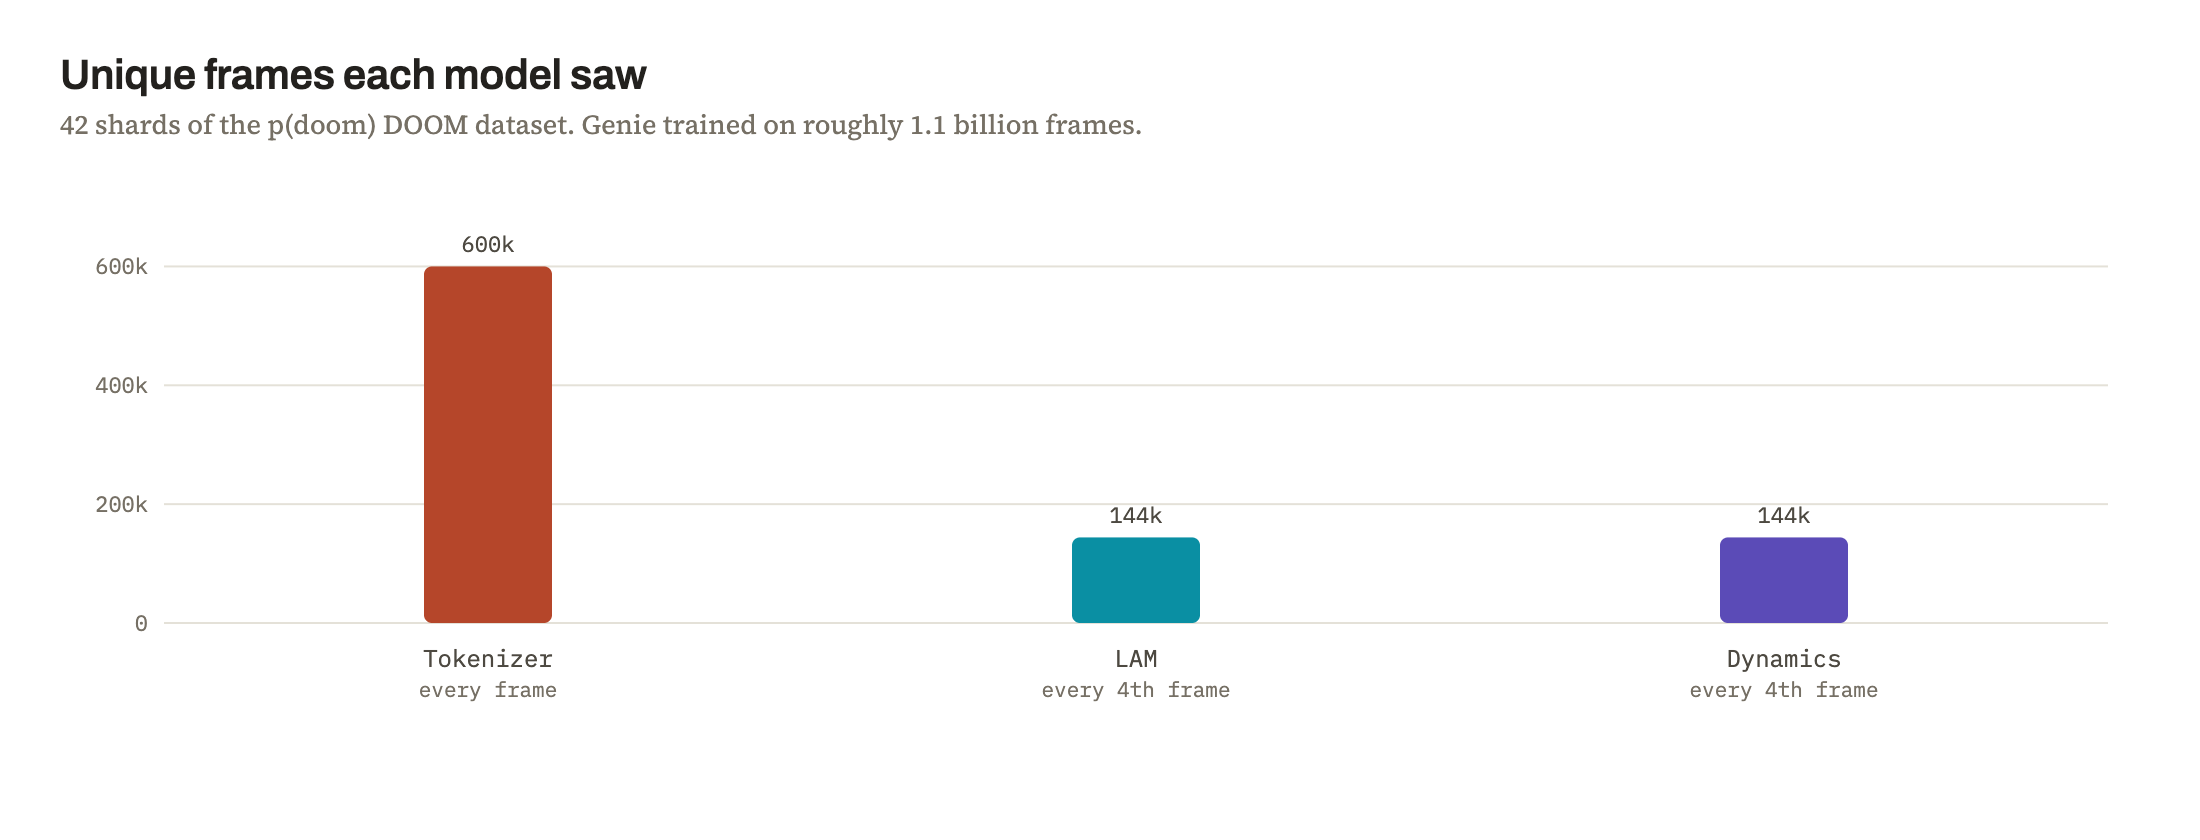
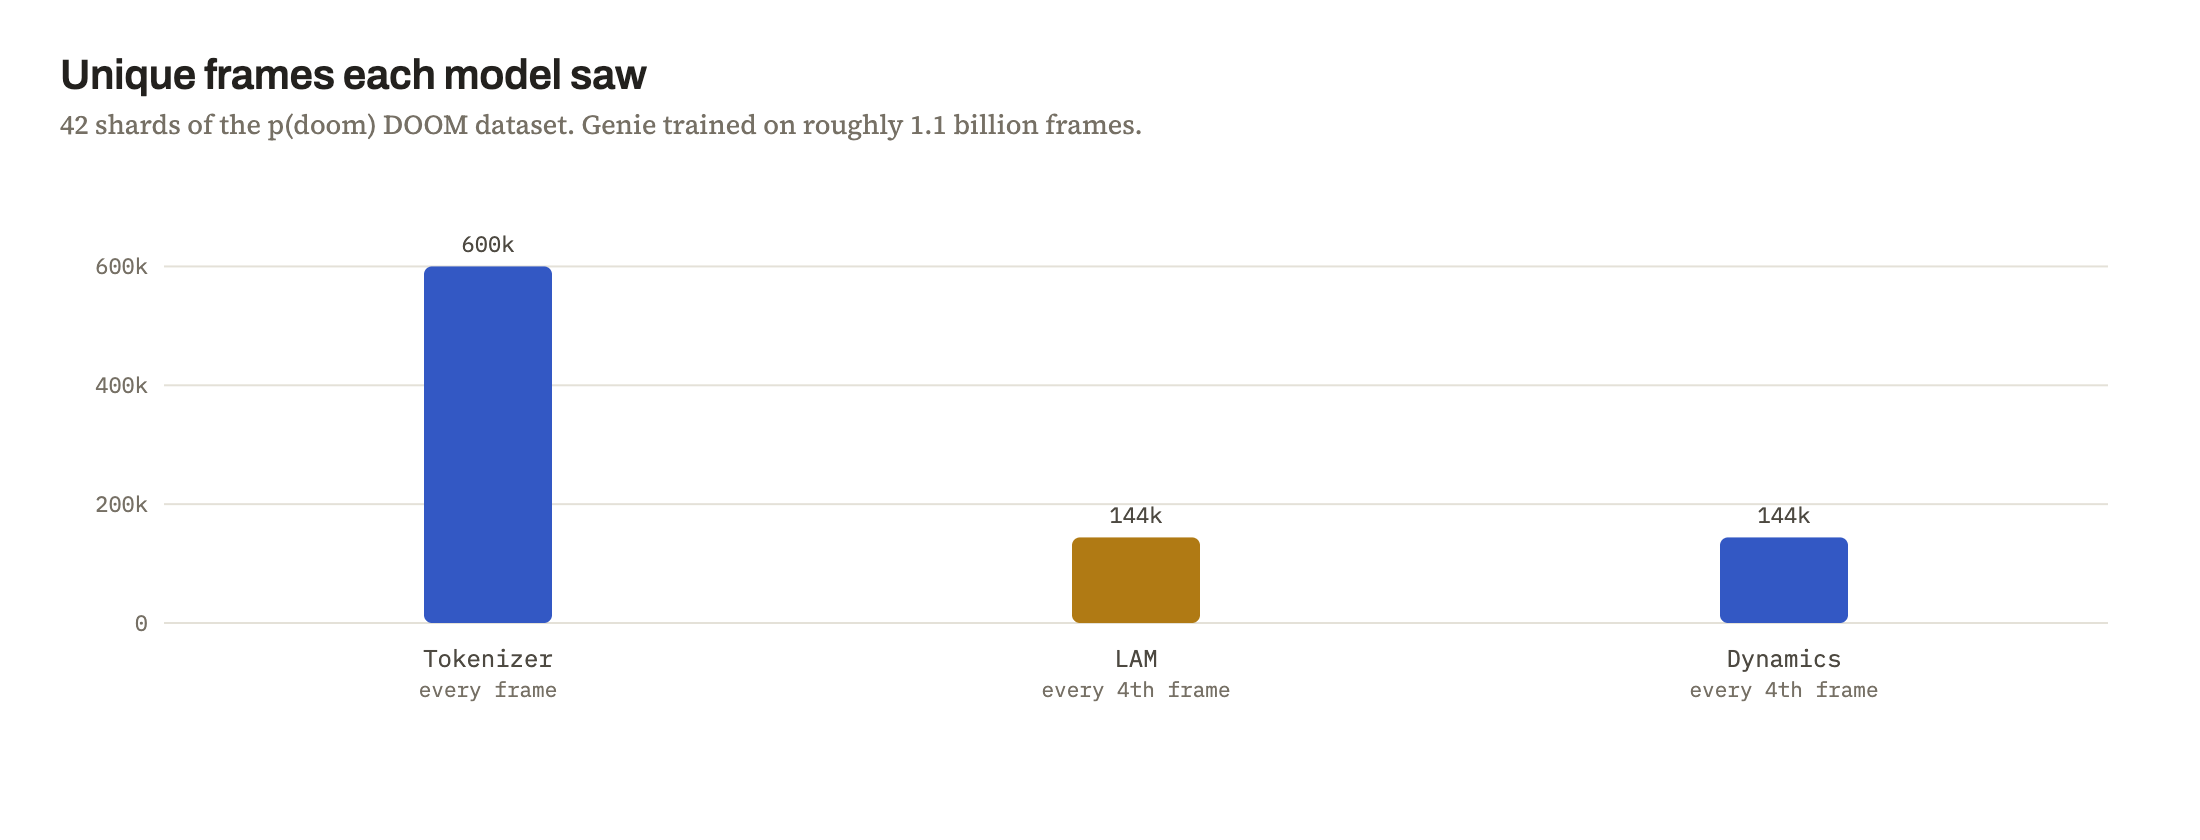
Give every chart on the page one palette
Blue for our measurements, amber for whatever they are compared against: the
whole-frame regime, the copy-last-frame baseline, Genie's reported figures.
The pan chart reads blue for left turns and amber for right. The inline SVG
charts move off their old teal and grey onto the same two values, so the
figures no longer disagree with each other from section to section.

Changed region(s): [[0.1855, 0.3095, 0.2782, 0.7429], [0.7727, 0.619, 0.8655, 0.7429], [0.4636, 0.619, 0.5564, 0.7429]]

diff --git a/docs/article.css b/docs/article.css
@@ -93,15 +93,15 @@ figcaption { font: 12px/1.65 var(--sans); color: var(--secondary); margin-top: 1
 .chart-legend { display: flex; justify-content: flex-end; gap: 19px; margin-top: 16px; font: 11px/1.5 var(--sans); }
 .chart-legend span { display: inline-flex; align-items: center; gap: 7px; }
 .chart-legend i { width: 9px; height: 9px; border-radius: 50%; }
-.ours-key, .ours-dot { background: #416d87; fill: #416d87; }
-.paper-key, .paper-dot { background: #939f92; fill: #939f92; }
+.ours-key, .ours-dot { background: #3358c4; fill: #3358c4; }
+.paper-key, .paper-dot { background: #b07a14; fill: #b07a14; }
 .model-chart, .frame-chart { display: block; width: 100%; height: auto; margin: 14px 0 16px; overflow: visible; }
 .chart-grid { stroke: var(--soft-rule); stroke-width: 1; fill: none; }
 .chart-labels, .chart-values { fill: var(--secondary); font-family: var(--sans); font-size: 14px; }
 .chart-values { fill: var(--ink); font-weight: 600; }
 .chart-join { stroke: #b7c4c5; stroke-width: 2; fill: none; }
-.verified-bar { fill: #537c94; }
-.reported-bar { fill: #dfe7e9; stroke: #537084; stroke-width: 1.5; stroke-dasharray: 4 3; }
+.verified-bar { fill: #3358c4; }
+.reported-bar { fill: #dde3f6; stroke: #3358c4; stroke-width: 1.5; stroke-dasharray: 4 3; }
 .table-scroll { overflow-x: auto; scrollbar-width: thin; }
 table { width: 100%; border-collapse: collapse; font: 13px/1.6 var(--sans); font-variant-numeric: tabular-nums; text-align: left; }
 th, td { padding: 12px 11px; border-bottom: 1px solid var(--soft-rule); }
